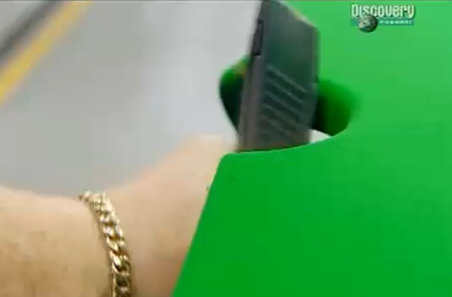
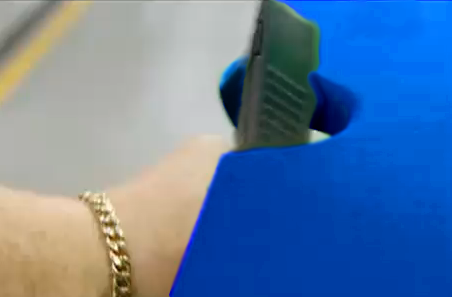
Ptimera version

diff --git a/Practica/Mesa.tex b/Practica/Mesa.tex
@@ -1,121 +1,143 @@
 \section {Descripción general del producto}
-	El producto que se desea fabricar es una mesa de billar. En particular una mesa de \emph{pool}.
-El producto esta formado por una  mesa con un tablero de pizarra forrada de paño, rodeada de bandas de material elástico y con seis troneras. 
+	El producto que se desea fabricar es una mesa de billar, en particular una mesa de \emph{Pool con tapiz azul}.
+
+Existen barios tipos de mesa de billar en función de la modalidad o tipo de juego y del tamaño de esta. A continuación se muestran algunos tipos de mesas de billar:
+
+\begin{itemize}
+\item {\bf Carambolas}
+ Las mesas de carambolas no poseen agujeros. Puede ser clásica o innovadora, con el tapizado verde o  con el tapizado azul y el borde de madera
+\item {\bf Pool} 
+Las mesas de pool tienen seis agujeros, cuatro en las esquinas y dos en la mitad de los dos lados más largos. Hay distintos tipos de mesas de \emph{Pool} en función del color del tapete y material del borde.
+\item {\bf Snooker}
+Las mesas de \emph{snooker} son similares a las mesas de \emph{Pool}. Pero son algo más grandes, con el tapiz más tupido y con las troneras más pequeñas y redondeadas. Suelen tener el tapizado verde y los bordes de madera
+\end{itemize}
+
+	  \begin{center}
+    			\includegraphics[width=0.4\textwidth]{PiramidCaram.jpg} \\
+ \small { Mesa de Billar de Carambola  Clásica}
+		\end{center}
+
+La descripción general del producto a grandes rasgos es la siguiente: La mesa de billar es una mesa de madera en la que se apoya una losa de pizarra forrada de paño rodeada de bandas de material elástico y con seis agujeros y seis troneras. 
 	
 	\subsection {Utilidad y aplicaciones}
 	La mesa de billar es usada para la práctica de un deporte llamado billar. Este deporte olímpico desde el 2004, tubos sus inicios en la 
  antigua  Grecia y Egipto, pero es en la Europa del siglo XV cuando se empezó a tomar la forma del juego que se conoce en la actualidad. 
 
-El billar consiste en: impulsar un número variable de bolas con la ayuda de un taco,  el cual lleva adosado en su extremo anterior una suela de cuero.
-Con este movimiento debemos procurar introducir unas bolas (de materiales sintéticos con cualidades elásticas similares a las del marfil) dentro de las troneras.
-
-	\subsection {Mercado}
-
-El mercado de este productos suele abarcarlo en casi su totalidad los locales de ocio,(bares y recreativos...). También hay particulares que desean obtener una
-mesa de billar, pero debido a su coste elevado son pocos los que pueden permitirse tener una en sus hogares. 
-    
+El billar consiste en: impulsar un número variable de bolas con la ayuda de un taco, el cual lleva adosado en su extremo anterior una suela de cuero.
+Con este movimiento debemos procurar introducir unas bolas, de materiales sintéticos con cualidades elásticas similares a las del marfil, dentro de las troneras.
+   
 \section {Diseño del producto}
 
-	\subsection {Definición técnica (dimensiones, especificaciones técnicas)}
+	\subsection {Definición técnica}
 			\begin{enumerate}
 			\item Las mediadas de la mesa de billar pueden variar ligeramente siempre y cuando respetemos algunas medidas estándar. En este caso las medidas elegida para la mesa son:
 				\begin{itemize}      
 				\item Medidas del campo de juego del billar: 200 x 100 cm.
 
-				\item Medidas exteriores: 232 x 132 Altura: 80cm
+				\item Medidas exteriores: 205 x 105 Altura: 80 cm
 				\end{itemize}
 				
+			\item La superficie de la mesa es una la losa de pizarra 20 mm. Recubierta de un fieltro (lana y Poliamida) azul de 600 g.
 
-			\item La superficie de la mesa es una la losa de pizarra 20 mm. Recubierta de un fieltro(lana y poliamida) verde de 600g.
-
-			\item Los bordes del campo de juego en los que las bollas tienen que rebotar esta compuesto por (goma vulcanizada + lana)
+			\item Los bordes del campo de juego en los que las bollas tienen que rebotar esta compuesto por (goma vulcanizada más lana)
 			\end{enumerate}
 
 
 	\subsection {Definición geométrica}
-		    \begin{enumerate}
-		     \item La superficie del juego debe ser rectangular y poseer 6 agujeros por donde se introducirán las bollas de x cm. Lo  agujeros estarán distribuidos como
+		    \begin{itemize}
+		     \item La superficie del juego debe ser rectangular y poseer 6 agujeros por donde se introducirán las bollas de 5,715 cm (± 0,127 mm). Lo  agujeros estarán distribuidos como
 			    muestra la siguiente figura.
 		  \begin{center}
-    			\includegraphics[width=0.4\textwidth]{billar.png}
+    			\includegraphics[width=0.25\textwidth]{billar.png} 
+			\\ \small {Distribución de agujeros en una mesa de Pool.}
 		\end{center}
 
+		     \item Los bordes del campo (goma) están por todo el perímetro del campo salvo por donde hay agujeros y mide 3 cm de grosor.
 
-		     \item Los bordes del campo (goma) están por todo el perímetro del campo salvo por donde hay agujeros y mide  3 cm de grosor.
-
-		     \item Para la definición geométrica de como son las demás piezas  se adjunta vistas que explique mejor que con palabras que apariencia tiene la mesas de billar
-			  y sus diferentes elementos.
+		     \item Para la definición geométrica de como son las demás piezas  se adjunta vistas general del producto, que explique mejor que apariencia tiene la mesas de billar
+			  y sus diferentes elementos. 
 		\begin{center}
-    			\includegraphics[width=0.8\textwidth]{donbillar.png}
+    			\includegraphics[width=0.5\textwidth]{donbillar.png}
+     \\ \small {Mesa de Pool con elegante acabado clásico}
 		\end{center}	
-		    \end{enumerate}
-
-
+		    \end{itemize}
 		    
 
 	\subsection {Definición mecánica}
 		    Cuando una bola cae a un agujero se pueden fabricar muchos y muy complejos mecanismos de recogida de la bola pero un mecanismo muy extendido,
-		    fiable y muy empleado en las mesas de billar, que residen en las viviendas, es poner unas troneras que guarden la bola una vez caída por el agujero hasta que queramos empezar
-		    el juego de nuevo. Estas troneras o recipientes pueden ser de muchos materiales pero en nutro caso serán de plástico duro y lo suficientemente grandes como para quepan casi todas las bolas. 
-\section {Fabricación del producto}
+		    fiable y muy empleado en las mesas de billar , que residen en las viviendas, es poner unas troneras que guarden la bola una vez caída por el agujero hasta que queramos empezar
+		    el juego de nuevo. Estas troneras o recipientes pueden ser de muchos materiales pero en nuestro caso serán de terciopelo azul  y lo suficientemente grandes como para quepan al menos cinco  bolas. 
 
-	\subsection {Recepción de piezas y/o materiales}
+\clearpage
+\section {Fabricación del producto}
 
 	\subsection {Proceso de fabricación detallado}
 		A  continuación vamos a  ir detallando paso por paso como se fabrica una mesa de billar y sus diferentes piezas.
 		
 		\subsubsection {Preparar el tablero de pizarra}
-			En primer lugar vamos a explicar como fabricar la pieza base de la mesa, el tablero o superficie de juego, hecho de pizarra. Este no tiene que ser necesariamente de pizarra pero es el mejor material, debido a  su resistencia y elasticidad, y no todas las pizarras son igual de buenas para una mesa de billar, lo que hace que una pizarra se buena y otra no es el contenido en cuarzo, cuanto menos tenga mejor será.
+			En primer lugar vamos a explicar como fabricar la pieza base de la mesa, el tablero o superficie de juego, hecho de pizarra. Este no tiene que ser necesariamente de pizarra pero es el mejor material, debido a  su resistencia y elasticidad.
 
-Para poder llegar hasta la pizarra solo se puede hacer combinar potentes motosierras con dinamita para obtener bloque gigantescos de pizarra.
+ No todas las pizarras son igual de buenas para una mesa de billar, lo que hace que una pizarra se buena y otra no es el contenido en cuarzo, cuanto menos tenga mejor será.
+
+Para poder llegar hasta la pizarra solo se puede hacer combinando potentes motosierras con dinamita, para poder así obtener bloque gigantescos de pizarra.
 
 	\begin{center}
-	    		\includegraphics[width=0.4\textwidth]{Pantallazo-1.png}
-			\includegraphics[width=0.4\textwidth]{Pantallazo-2.png}
+	    		\includegraphics[width=0.4\textwidth]{Pantallazo-1.png}			
+    \\ \small {Detonador de dinamita} \\[0.5cm]
+\includegraphics[width=0.4\textwidth]{Pantallazo-2.png} 
+\\ \small {Excavadora trasportando bloque de pizarra}
 	\end{center}
 
- Cuando tenemos el bloque de pizarra esté es trasportado a una marmolería donde se trasformara en la pieza que formará la mesa de billar.
+ Cuando tenemos el bloque de pizarra, esté es trasportado a una marmolería donde se trasformara en la pieza que formará la mesa de billar.
 
 
-Como el bloque de pizarra es enorme  no se pueda partir  en trozos que sirvan para una mesa de billar, primero hay que cortar el bloque en losas que se puedan manejar. Para ello se utiliza una enorme sierra que corta la pizarra en gruesas lonchas. Para evitar que la pizarra se quiebre hay que cortarla muy despacio y refrigerar con agua continuamente las hojas de las sierras. 
+Como el bloque de pizarra es enorme  no se pueda partir  en trozos que sirvan para una mesa de billar, primero hay que cortar el bloque en losas que se puedan manejar. Para ello se utiliza una enorme sierra que corta la pizarra en gruesas lonchas. 
+
+Para evitar que la pizarra se quiebre hay que cortarla muy despacio y refrigerar con agua continuamente las hojas de las sierras. 
 	\begin{center}
 	    		\includegraphics[width=0.4\textwidth]{Pantallazo-3.png}
-
+\\ \small {Maquina encargada de cortar la pizarra}
 	\end{center}
 
 
-Como la pizarra esta formada por una serie de capas asentadas una sobre otra, los cortes tienen que ser hechos  a lo largo de esa linea de división.  La estructura rígida    
-de la pizarra hace que si se corta en la dirección correcta producirá losas finas de un grosor uniforme, para ello se emplea un cincel y un martillo para separa las losas de pizarra de forma manual.
+Como la pizarra esta formada por una serie de capas asentadas una sobre otra, los cortes tienen que ser hechos  a lo largo de esas lineas de división.
+  La estructura rígida  de la pizarra hace que si se corta en la dirección correcta producirá losas finas de un grosor uniforme, para ello se emplea un cincel y un martillo para separa las losas de pizarra de forma manual.
 	\begin{center}
 	    		\includegraphics[width=0.4\textwidth]{Pantallazo-5.png}
-
+			\\ \small {Separación manual de las losas de pizarra}
 	\end{center}
 
-Cuando ya tenemos la losa de pizarra la cortamos con las dimensiones deseadas (2m x 1m) ayudándonos de unas radiales. 
+Cuando ya tenemos la losa de pizarra la cortamos con las dimensiones deseadas (2 m x 1 m) ayudándonos de unas radiales. 
 \begin{center}
 	    		\includegraphics[width=0.4\textwidth]{Pantallazo-6.png}
+		        \\ \small {Radial encargada de cortar la pizarra}
 
 	\end{center}
 
-Luego hay que  pulir los bordes con ayuda una muela de diamante que los deje suaves y nivelados.
+Luego hay que  pulir los bordes con ayuda de una muela de diamante, que deje estos suaves y nivelados.
+
 
 Una cuarta maquina corta los agujeros por donde salen las bolas para que luego sean ligados a mano.
 
 \begin{center}
 	    		\includegraphics[width=0.4\textwidth]{Pantallazo-7.png}
+      \\ \small {Agujeros en la losa de pizarra}
 
-	\end{center} Y con esto concluye la preparación del la losa de pizarra.
- 
+
+	\end{center}
+ Y con esto concluye la preparación del la losa de pizarra.
+
 		\subsubsection {Colocación del paño}
   	
- 	Para un perfecto deslizamiento de la bola sobre la losa de pizarra hay que colocar un paño de lana y poliamida azul en nuestro caso. Este deberá ser muy resistente y tener una superficie uniforme para desempeñas correctamente su función.
+ 	Para un perfecto deslizamiento de la bola sobre la losa de pizarra hay que colocar un paño de lana y Poliamida azul en nuestro caso. Este deberá ser muy resistente y tener una superficie uniforme para desempeñas correctamente su función.
 
-	La coloración del paño o tapiz se hace de forma totalmente artesanal. Para ello lo colocan primero encima de da losa y entre los agujeros por donde salen las bolas , luego cortan el paño sobrante y finalmente la alisan con un cepillo. 
+	La coloración del paño o tapiz se hace de forma totalmente artesanal. Para ello lo colocan primero encima de da losa y entre los agujeros por donde salen las bolas, luego cortan el paño sobrante y finalmente la alisan con un cepillo. 
 
 	\begin{center}
     			\includegraphics[width=0.4\textwidth]{Pantallazo.png}
+			    \\ \small {Colocación del paño o tapete}
 		\end{center}
-   
+\clearpage
 		\subsubsection {Montaje del  borde superior de la mesa de billar}
 
 	En este paso se montara la parte de arriba de la mesa  sin incluir la superficie de juego.
@@ -124,43 +146,120 @@ Una cuarta maquina corta los agujeros por donde salen las bolas para que luego s
     		\includegraphics[width=0.4\textwidth]{P1.png}
 	\end{center}
 	
-	Los borde de la superficie de juego deben de tener la elasticidad correcta como para que las bolas reboten sin perder parte de su energía cinética, para ello se hace un compuesto de goma vulcanizada (proceso mediante el cual se calienta el caucho crudo en presencia de azufre, con el objetivo de incrementar su dureza y resistencia al frío).
+	Los borde de la superficie de juego deben de tener la elasticidad correcta como para que las bolas reboten sin perder parte de su energía cinética, para ello se hace un compuesto de goma vulcanizada este proceso consiste en:
+Calentar el caucho crudo en presencia de azufre, con el objetivo de incrementar su dureza y resistencia al frío.
 
-Luego a los borde se les colocan también unos pliegues de tapetes azules de lana sujetos con unas grapas.
+Luego a los borde se les colocan también unos pliegues de tapetes azules de lana sujetos con unas grapas por la parte interior.
 
 
-A los bordes interiores se les ancla los bordes exteriores de la mesa de billar pera ello se utiliza cola industrial. Los bordes exteriores han sido realizados en madera (madera maciza de pino), encargados en una carpintería industrial, así como las demás piezas de  madera de la mesa.  
+A los bordes interiores se les ancla los bordes exteriores de la mesa de billar pera ello se utiliza cola industrial. La unión de ambos bordes se hace a lo largo de los primeros 2 cm de los bordes de madera. Quedando así 2 cm para la losa de pizarra,  2 cm para el tablón de madera, otros 2 cm para las escuadras de acero. Los bordes exteriores han sido realizados en madera (madera maciza de pino), encargados en una carpintería industrial, así como las demás piezas de  madera de la mesa.  
 
-El borde de madera consta de 4 piezas de de 7 cm de grosor con los agujeros que muestra la figura ... y las medidas de muestra esta otra figura:
+\begin{center}
+    		\includegraphics[width=0.4\textwidth]{fc742624-a4ab-44cb-beef-0393ab3abd4a.jpg}
+	          \\ \small {Carpinteros realizando partes de una mesa de billar}
+	\end{center}
+
+
+
+También todas las piezas de madera ha sido pintadas con una barniz para darles un acabado en negro nogal.
+
+El borde de madera consta de 4 piezas de de 8 cm de grosor con los agujeros que muestra la figura del apartado 2.2.  Las medidas de estas piezas se pueden ver en esta otra figura:
 
 \begin{center}
     		\includegraphics[width=0.4\textwidth]{Exterior.png}
+		 \\ \small {Medidas de bordes exteriores}
 	\end{center}
 
-Para unir estas cuatro piezas se emplean dos tornillos por cada unión.
+Para unir estas cuatro piezas se emplean pegamento industrial (cola especial para madera).
  
-Antes de unir el borde interior al borde exterior, en cada agujero de la madera hay que colocar las piezas de plástico que revestirán los agujeros y amortiguaran las bolas, ya que en este 
-lugar se pretende que las bolas no reboten sino que caigan a las troneras.  Estas piezas van directamente encajadas entre las piezas de madera y sujetas por la parte de arriba con dos gramas.  
+Antes de unir el borde interior al borde exterior, en cada agujero de la madera hay que colocar las piezas de plástico duro que revestirán los agujeros y amortiguaran las bolas, ya que en este 
+lugar se pretende que las bolas no reboten sino que caigan a las troneras.  Estas piezas van directamente encajadas entre las piezas de madera y goma.  
 
-Para finalizar esta parte se grapan las troneras a esta superficie de madera, las troneras han sido realizadas en terciopelo azul.
+Para finalizar esta parte se grapan las troneras a esta superficie de madera por la parte de debajo sin que se vean, las troneras han sido realizadas en terciopelo azul.
 
 
-\subsubsection {Montaje la superficie sobre la que ira la losa de pizarra}
+\subsubsection {Montaje de la superficie sobre la que ira la losa de pizarra}
 
 \begin{center}
     		\includegraphics[width=0.5\textwidth]{billar2.png}
 	\end{center}
+
+
+El montaje de esta parte constan de ensamblar nueve piezas de madera, las cuatro patas,  cuatro bigas y un tablón de madera de igual tamaño y forma que la losa de pizarra.
+Cuando todas las piezas estén ensamblada la apariencia será la de una mesa normal, salvo por lo agujeros en el tablón de  madera.
+
+Las bigas tiene 1,5 cm de grosor y las demás medidas las muestra esta figura.
+
+\begin{center}
+    		\includegraphics[width=0.5\textwidth]{bigas.png}
+		 \\ \small {Medidas de las bigas}
+	\end{center}
+
+El ensamblaje se hace con cola industrial y por presión encajando los rebordes de las bigas en las patas (las patas deben llevar una hendidura del tamaño del reborde).
+La tabla de madera si debe ser atornillada a las bigas, con al menos 8 tornillos  (300 mm x 8 mm) para madera a lo largo de la superficie de la mesa,  cerca de la intersección de dos bigas. 
+Es muy importante que los tornillos estén bien apretados ya que la losa irá encima y si alguno sobresaliera, la superficie del juego podría no quedar recta. 
+
+\begin{center}
+    		\includegraphics[width=0.25\textwidth]{_42-100.jpg}
+		 \\ \small {Tornillos  300 mm x 8 mm}
+	\end{center}
+
+\begin{center}
+
+Lo único importante con respecto al diseño de las patas es la medida que se especifica en la figura de abajo y la parte de la pata que irá unida con las bigas. Las medidas deberán de corresponderse con las de las bigas mencionadas en otros esquemas.
+También aunque las patas puedan diferir de la imagen, las cuatro deben ser iguales.   
+ 		\includegraphics[width=0.5\textwidth]{Pata.png}
+		 \\ \small {Dibujo de la pata de la mesa facilitado al carpintero}
+	\end{center}
+
+
+\subsubsection {Unión de las tres partes}
+
+Para unir las tres partes se coloca la losa de pizarra encima de la mesa y se encajan los borde de la mesa. Para la fijación de la tabla de madera con los borde se emplea pegamento industrial y escuadras de acero, atornilladas con pequeños tornillos de madera.
+La colocación de las escuadras  se hace por la parte de debajo de la mesa, donde estas no puedan verse, se emplearán 8 escuadras. No olvidar sellar también con pegamento industrial. 
+
+
+\begin{center}
+    		\includegraphics[width=0.3\textwidth]{cola.jpg}
+		   \\ \small {Cola especial para madera} \\[0.5cm]
+		\includegraphics[width=0.25\textwidth]{escuadra.jpg}
+		      \\ \small {Ecuadra de acero de 2 cm  x 0,5 cm } 
+	\end{center}
+
+\clearpage
 \section {Mercado}
 
-	\subsection {Comercialización del producto}
+El mercado de las mesas de billar suele abarcarlo en casi su totalidad los locales de ocio, (bares y recreativos...). También hay particulares que desean obtener una
+mesa de billar, pero debido a su coste elevado son pocos los que pueden permitirse tener una en sus hogares. 
 
+La mesa de billar descrita en los apartados anteriores esta pensado para un uso particular, en casa o centros recreativos privados, su coste es un tanto elevado, en torno a 2000 \euro.
+Algo importante a tener en cuenta antes de adquirir este producto es que, para su utilización hay que tener otro tipo de equiparación, como son:  bolas, palos, tacos, guantes ... y que el uso adecuado de este producto exige un mantenimiento periódico.  
 
+Este producto se puede encontrar en muchas tiendas de regalos decoración e incluso en alguna tienda de muebles.
+
+En España no hay  mucho consumo de mesas de billar, no obstante se han encontrado algunos sitios para la compra de este producto.
+Como son:
+
+\begin{itemize}
+  \item http://www.grupobillarcor.es/
+ \item http://www.poolspain.com/
+ \item http://www.donbillar.com/
+ \item http://www.mibillar.com
+\end{itemize}
+   
+Antes se dijo que el consumo en España de mesas de billar no es muy abundantes, esto es si se compara con otros países como Inglaterra o Estados Unidos.
+
+\clearpage
 \subsection{bibliografía}
+\begin{itemize}
 
-%http://www.donbillar.com/mesas_de_billar.html
+\item http://www.donbillar.com/mesas de billar.html
+\item http://www.youtube.com/watch?v=8cjHNDAokqs
+\item http://construyeloya.blogspot.com/2007/09/construye-tu-propia-mesa-de-billar.html
+\item http://www.construirmesadebillar.com/
+\item Para las elaboración de algunos esquemas.
 
-%http://www.youtube.com/watch?v=8cjHNDAokqs
+ http://www.gimp.org.es/
 
-%http://construyeloya.blogspot.com/2007/09/construye-tu-propia-mesa-de-billar.html
-
-%http://www.construirmesadebillar.com/
+\item http://es.wikipedia.org/wiki/Billar
+\end{itemize}

diff --git a/Practica/Pizarra.tex b/Practica/Pizarra.tex
@@ -3,11 +3,11 @@
 	La pizarra es una roca metamórfica homogenea, formada a partir de otras rocas mediante un proceso de metamorfización. ``Transformación sin cambio de estado de la estructura o la composición química o mineral de una roca cuando queda sometida a condiciones de temperatura o presión distintas de las que la originaron o cuando recibe una inyección de fluidos."
 
 	\subsection {Características físicas}
-	La principal caracteristica es su dureza, razón por la cual es empleada en la fabricación de mesas de billar.
+	La principal característica es su dureza, razón por la cual es empleada en la fabricación de mesas de billar.
 
-	La pizzara se suele encontrar en laminas o capas y con  un color negro azulado o grisaceo en la malloria de los casos, pero puede aparecer en tonos  verdes o rojos.
+	La pizarra se suele encontrar en laminas o capas y con  un color negro azulado o grisáceo en la mayoría de los casos, pero puede aparecer en tonos  verdes o rojos.
 
-	Otra características es su impermeabilidad, razón por la cual se emplea para pabimentar o techar en lugares de abundantes precipitaciones y temperaturas bajas. 
+	Otra características es su impermeabilidad, razón por la cual se emplea para pavimentar o techar en lugares de abundantes precipitaciones y temperaturas bajas. 
 
 Su textura es de Granos finos y pizarrosa. Compacta y no sufre meteorización apreciable.
 
@@ -17,13 +17,13 @@ Su brillo es opaco. Satinado.
 
 	\subsection {Características químicas}
 
-La pizarra se compone principalmente de arcilla, ceniza volcanica o con menor frecuencia rocas igneas combinadas con minerales (metamorfización) como, cuarzo y muscovita o illita, a menudo junto con biotita, clorita, hematita y pirita y, con menor frecuencia, apatita, grafito, caolín, magnetita, turmalina o circón, así como de feldespato.
+La pizarra se compone principalmente de arcilla, ceniza volcánica o con menor frecuencia rocas ígneas combinadas con minerales (metamorfización) como, cuarzo y muscovita o illita, a menudo junto con biotita, clorita, hematita y pirita y, con menor frecuencia, apatita, grafito, caolín, magnetita, turmalina o circón, así como de feldespato.
 
 	\subsection {Características mecánicas}
  
 Valor del modulo de elasticidad (Farmer, 1968) 1-3,5 $(Kg/cm2) x 10^5$
 \par
-La siguientes caracteristicas se corresponden con la pizzara de Bernardos (Segovia). Que son las canteras de pizarra más antiguas de España. Se comenzaron a explotar hace 450 años por orden de Felipe II.
+La siguientes características se corresponden con la pizarra de Bernardos (Segovia). Que son las canteras de pizarra más antiguas de España. Se comenzaron a explotar hace 450 años por orden de Felipe II.
 
  \begin{itemize}
         \item Densidad aparente $2,77 g/cm^3$ 
@@ -40,11 +40,13 @@ La siguientes caracteristicas se corresponden con la pizzara de Bernardos (Segov
 
 \clearpage
 
-\section {Estracción/obtención}
-Gales es una de las zonas con mayor producción de pizarra del mundo. En Portugal, Italia o Alemania tambien hay importantes explotaciones de pizarra. En España los yacimientos importantes estan en El Bierzo,
+\section {Estracción & obtención}
+Debido a su composición la pizarra suele estar en zonas volcánicas.
+
+Gales es una de las zonas con mayor producción de pizarra del mundo. En Portugal, Italia o Alemania también hay importantes explotaciones de pizarra. En España los yacimientos importantes están en El Bierzo,
 Cabrera y Valdeorras (León y Orense), Bernardos (Segovia) y Villar del Rey (Badajoz).
 
-En America encontramos lugares de estracción en Brasil, siendo el segundo productor del mundo. Tambien en Norteamérica hay zonas de producción importantes en Terranova, y Nueva York.
+En América encontramos lugares de extracción en Brasil, siendo el segundo productor del mundo. También en Norteamérica hay zonas de producción importantes en Terranova, y Nueva York.
 
 	\subsection {Extracción}
 
